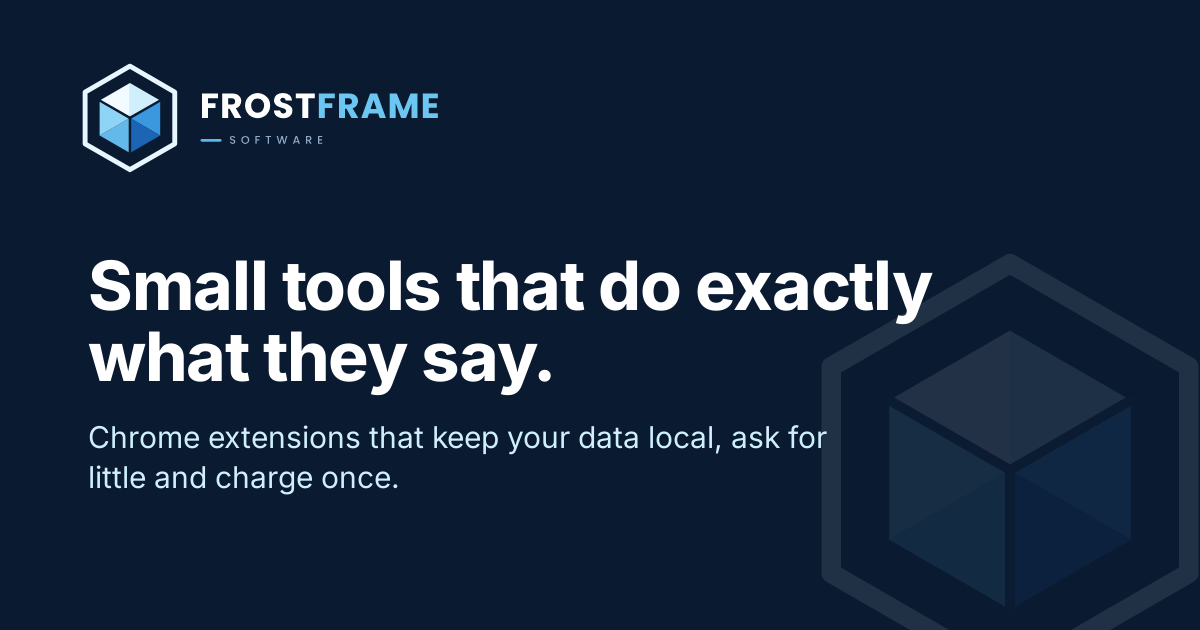
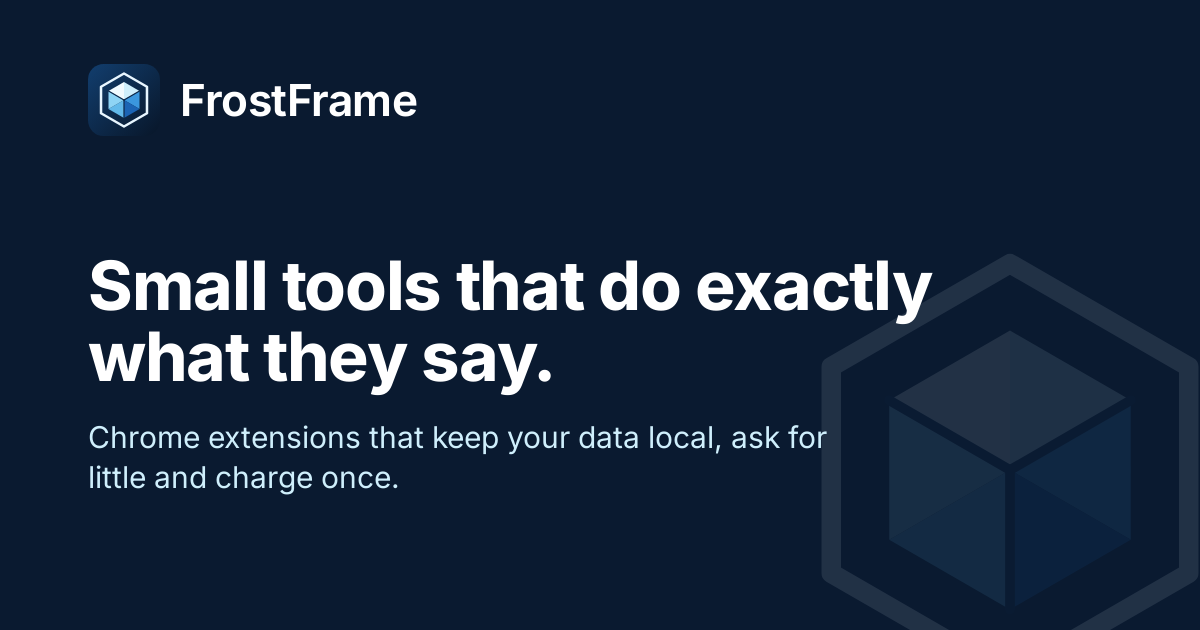
Dachmarke nur „FrostFrame“, ohne „Software“
Claude-Session: https://claude.ai/code/session_01BatjDtbuoVce3uDHUNqtjW

Changed region(s): [[0.0617, 0.0905, 0.37, 0.2714]]

diff --git a/index.html b/index.html
@@ -4,13 +4,13 @@
   <meta charset="utf-8">
   <meta name="viewport" content="width=device-width, initial-scale=1">
   <!-- PLACEHOLDER: Domain (frostframe.example) in canonical und og:url, wenn die Domain registriert ist -->
-  <title>FrostFrame Software – Small, honest browser extensions</title>
-  <meta name="description" content="FrostFrame Software makes focused Chrome extensions: Cookie Desk, Exact Size and Sure Fill. Local by default, minimal permissions, pay once.">
+  <title>FrostFrame – Small, honest browser extensions</title>
+  <meta name="description" content="FrostFrame makes focused Chrome extensions: Cookie Desk, Exact Size and Sure Fill. Local by default, minimal permissions, pay once.">
   <link rel="canonical" href="https://frostframe.example/">
   <meta property="og:type" content="website">
-  <meta property="og:site_name" content="FrostFrame Software">
-  <meta property="og:title" content="FrostFrame Software – Small, honest browser extensions">
-  <meta property="og:description" content="FrostFrame Software makes focused Chrome extensions: Cookie Desk, Exact Size and Sure Fill. Local by default, minimal permissions, pay once.">
+  <meta property="og:site_name" content="FrostFrame">
+  <meta property="og:title" content="FrostFrame – Small, honest browser extensions">
+  <meta property="og:description" content="FrostFrame makes focused Chrome extensions: Cookie Desk, Exact Size and Sure Fill. Local by default, minimal permissions, pay once.">
   <meta property="og:url" content="https://frostframe.example/">
   <meta property="og:image" content="https://frostframe.example/assets/og.png">
   <meta name="twitter:card" content="summary_large_image">
@@ -24,7 +24,7 @@
 <a class="skip" href="#main">Skip to content</a>
 <header class="site-header">
   <div class="wrap">
-    <a class="brand" href="index.html"><img src="assets/brand/frostframe-icon.svg" alt="" width="30" height="30">FrostFrame <span>Software</span></a>
+    <a class="brand" href="index.html"><img src="assets/brand/frostframe-icon.svg" alt="" width="30" height="30">FrostFrame</a>
     <nav class="site-nav" aria-label="Main">
       <a href="index.html#extensions" class="keep">Extensions</a>
       <a href="index.html#pricing">Pricing</a>
@@ -40,7 +40,7 @@
     <div>
       <span class="kicker">Browser extensions for Chrome</span>
       <h1>Small tools that do exactly what they say.</h1>
-      <p class="lead">FrostFrame Software makes focused browser extensions for developers, testers and everyone who works in the browser all day. Your data stays on your device, permissions stay minimal, and you pay once.</p>
+      <p class="lead">FrostFrame makes focused browser extensions for developers, testers and everyone who works in the browser all day. Your data stays on your device, permissions stay minimal, and you pay once.</p>
       <div class="buttons">
         <a class="button primary" href="#extensions">Explore the extensions <svg viewBox="0 0 24 24" aria-hidden="true"><path d="M5 12h14m-6-6 6 6-6 6"/></svg></a>
         <a class="button" href="#pricing">How pricing works</a>
@@ -203,7 +203,7 @@
 <footer class="site-footer">
   <div class="wrap">
     <div>
-      <a class="brand" href="index.html"><img src="assets/brand/frostframe-icon.svg" alt="" width="30" height="30">FrostFrame <span>Software</span></a>
+      <a class="brand" href="index.html"><img src="assets/brand/frostframe-icon.svg" alt="" width="30" height="30">FrostFrame</a>
       <p>Small, honest browser tools. Your data stays on your device.</p>
     </div>
     <nav aria-label="Extensions">
@@ -228,7 +228,7 @@
         <li><a href="privacy.html">Privacy policy</a></li>
       </ul>
     </nav>
-    <p class="legal-line">© 2026 FrostFrame Software.</p>
+    <p class="legal-line">© 2026 FrostFrame.</p>
   </div>
 </footer>
 </body>

diff --git a/privacy.html b/privacy.html
@@ -4,13 +4,13 @@
   <meta charset="utf-8">
   <meta name="viewport" content="width=device-width, initial-scale=1">
   <!-- PLACEHOLDER: Domain (frostframe.example) in canonical und og:url, wenn die Domain registriert ist -->
-  <title>Privacy policy | FrostFrame Software</title>
-  <meta name="description" content="How FrostFrame Software and its browser extensions handle your data.">
+  <title>Privacy policy | FrostFrame</title>
+  <meta name="description" content="How FrostFrame and its browser extensions handle your data.">
   <link rel="canonical" href="https://frostframe.example/privacy.html">
   <meta property="og:type" content="website">
-  <meta property="og:site_name" content="FrostFrame Software">
-  <meta property="og:title" content="Privacy policy | FrostFrame Software">
-  <meta property="og:description" content="How FrostFrame Software and its browser extensions handle your data.">
+  <meta property="og:site_name" content="FrostFrame">
+  <meta property="og:title" content="Privacy policy | FrostFrame">
+  <meta property="og:description" content="How FrostFrame and its browser extensions handle your data.">
   <meta property="og:url" content="https://frostframe.example/privacy.html">
   <meta property="og:image" content="https://frostframe.example/assets/og.png">
   <meta name="twitter:card" content="summary_large_image">
@@ -24,7 +24,7 @@
 <a class="skip" href="#main">Skip to content</a>
 <header class="site-header">
   <div class="wrap">
-    <a class="brand" href="index.html"><img src="assets/brand/frostframe-icon.svg" alt="" width="30" height="30">FrostFrame <span>Software</span></a>
+    <a class="brand" href="index.html"><img src="assets/brand/frostframe-icon.svg" alt="" width="30" height="30">FrostFrame</a>
     <nav class="site-nav" aria-label="Main">
       <a href="index.html#extensions" class="keep">Extensions</a>
       <a href="index.html#pricing">Pricing</a>
@@ -41,7 +41,7 @@
 <p class="muted">Last updated: 28 October 2026</p>
 
 <h2>Who is responsible</h2>
-<p>Patrick Weber, Germany (private individual; FrostFrame Software is the name under which the extensions are published, not a company). Email: <a href="mailto:frostframe.software@proton.me">frostframe.software@proton.me</a>.</p>
+<p>Patrick Weber, Germany (private individual; FrostFrame is the name under which the extensions are published, not a company). Email: <a href="mailto:frostframe.software@proton.me">frostframe.software@proton.me</a>.</p>
 
 <h2 id="website">This website</h2>
 <ul>
@@ -85,7 +85,7 @@
 <footer class="site-footer">
   <div class="wrap">
     <div>
-      <a class="brand" href="index.html"><img src="assets/brand/frostframe-icon.svg" alt="" width="30" height="30">FrostFrame <span>Software</span></a>
+      <a class="brand" href="index.html"><img src="assets/brand/frostframe-icon.svg" alt="" width="30" height="30">FrostFrame</a>
       <p>Small, honest browser tools. Your data stays on your device.</p>
     </div>
     <nav aria-label="Extensions">
@@ -110,7 +110,7 @@
         <li><a href="privacy.html">Privacy policy</a></li>
       </ul>
     </nav>
-    <p class="legal-line">© 2026 FrostFrame Software.</p>
+    <p class="legal-line">© 2026 FrostFrame.</p>
   </div>
 </footer>
 </body>

diff --git a/sure-fill.html b/sure-fill.html
@@ -4,12 +4,12 @@
   <meta charset="utf-8">
   <meta name="viewport" content="width=device-width, initial-scale=1">
   <!-- PLACEHOLDER: Domain (frostframe.example) in canonical und og:url, wenn die Domain registriert ist -->
-  <title>Sure Fill – Fill forms with made-up test data. | FrostFrame Software</title>
+  <title>Sure Fill – Fill forms with made-up test data. | FrostFrame</title>
   <meta name="description" content="Fill forms with made-up, valid test data in one click, and see which fields were skipped and why.">
   <link rel="canonical" href="https://frostframe.example/sure-fill.html">
   <meta property="og:type" content="website">
-  <meta property="og:site_name" content="FrostFrame Software">
-  <meta property="og:title" content="Sure Fill – Fill forms with made-up test data. | FrostFrame Software">
+  <meta property="og:site_name" content="FrostFrame">
+  <meta property="og:title" content="Sure Fill – Fill forms with made-up test data. | FrostFrame">
   <meta property="og:description" content="Fill forms with made-up, valid test data in one click, and see which fields were skipped and why.">
   <meta property="og:url" content="https://frostframe.example/sure-fill.html">
   <meta property="og:image" content="https://frostframe.example/assets/og.png">
@@ -24,7 +24,7 @@
 <a class="skip" href="#main">Skip to content</a>
 <header class="site-header">
   <div class="wrap">
-    <a class="brand" href="index.html"><img src="assets/brand/frostframe-icon.svg" alt="" width="30" height="30">FrostFrame <span>Software</span></a>
+    <a class="brand" href="index.html"><img src="assets/brand/frostframe-icon.svg" alt="" width="30" height="30">FrostFrame</a>
     <nav class="site-nav" aria-label="Main">
       <a href="index.html#extensions" class="keep">Extensions</a>
       <a href="index.html#pricing">Pricing</a>
@@ -91,7 +91,7 @@
 <footer class="site-footer">
   <div class="wrap">
     <div>
-      <a class="brand" href="index.html"><img src="assets/brand/frostframe-icon.svg" alt="" width="30" height="30">FrostFrame <span>Software</span></a>
+      <a class="brand" href="index.html"><img src="assets/brand/frostframe-icon.svg" alt="" width="30" height="30">FrostFrame</a>
       <p>Small, honest browser tools. Your data stays on your device.</p>
     </div>
     <nav aria-label="Extensions">
@@ -116,7 +116,7 @@
         <li><a href="privacy.html">Privacy policy</a></li>
       </ul>
     </nav>
-    <p class="legal-line">© 2026 FrostFrame Software.</p>
+    <p class="legal-line">© 2026 FrostFrame.</p>
   </div>
 </footer>
 </body>

diff --git a/exact-size.html b/exact-size.html
@@ -4,12 +4,12 @@
   <meta charset="utf-8">
   <meta name="viewport" content="width=device-width, initial-scale=1">
   <!-- PLACEHOLDER: Domain (frostframe.example) in canonical und og:url, wenn die Domain registriert ist -->
-  <title>Exact Size – Resize the browser window or viewport to exact sizes. | FrostFrame Software</title>
+  <title>Exact Size – Resize the browser window or viewport to exact sizes. | FrostFrame</title>
   <meta name="description" content="Resize the browser window or viewport to exact sizes.">
   <link rel="canonical" href="https://frostframe.example/exact-size.html">
   <meta property="og:type" content="website">
-  <meta property="og:site_name" content="FrostFrame Software">
-  <meta property="og:title" content="Exact Size – Resize the browser window or viewport to exact sizes. | FrostFrame Software">
+  <meta property="og:site_name" content="FrostFrame">
+  <meta property="og:title" content="Exact Size – Resize the browser window or viewport to exact sizes. | FrostFrame">
   <meta property="og:description" content="Resize the browser window or viewport to exact sizes.">
   <meta property="og:url" content="https://frostframe.example/exact-size.html">
   <meta property="og:image" content="https://frostframe.example/assets/og.png">
@@ -24,7 +24,7 @@
 <a class="skip" href="#main">Skip to content</a>
 <header class="site-header">
   <div class="wrap">
-    <a class="brand" href="index.html"><img src="assets/brand/frostframe-icon.svg" alt="" width="30" height="30">FrostFrame <span>Software</span></a>
+    <a class="brand" href="index.html"><img src="assets/brand/frostframe-icon.svg" alt="" width="30" height="30">FrostFrame</a>
     <nav class="site-nav" aria-label="Main">
       <a href="index.html#extensions" class="keep">Extensions</a>
       <a href="index.html#pricing">Pricing</a>
@@ -91,7 +91,7 @@
 <footer class="site-footer">
   <div class="wrap">
     <div>
-      <a class="brand" href="index.html"><img src="assets/brand/frostframe-icon.svg" alt="" width="30" height="30">FrostFrame <span>Software</span></a>
+      <a class="brand" href="index.html"><img src="assets/brand/frostframe-icon.svg" alt="" width="30" height="30">FrostFrame</a>
       <p>Small, honest browser tools. Your data stays on your device.</p>
     </div>
     <nav aria-label="Extensions">
@@ -116,7 +116,7 @@
         <li><a href="privacy.html">Privacy policy</a></li>
       </ul>
     </nav>
-    <p class="legal-line">© 2026 FrostFrame Software.</p>
+    <p class="legal-line">© 2026 FrostFrame.</p>
   </div>
 </footer>
 </body>

diff --git a/cookie-desk.html b/cookie-desk.html
@@ -4,12 +4,12 @@
   <meta charset="utf-8">
   <meta name="viewport" content="width=device-width, initial-scale=1">
   <!-- PLACEHOLDER: Domain (frostframe.example) in canonical und og:url, wenn die Domain registriert ist -->
-  <title>Cookie Desk – View, edit, protect and back up cookies in Chrome. | FrostFrame Software</title>
+  <title>Cookie Desk – View, edit, protect and back up cookies in Chrome. | FrostFrame</title>
   <meta name="description" content="View, edit, protect and back up cookies in Chrome.">
   <link rel="canonical" href="https://frostframe.example/cookie-desk.html">
   <meta property="og:type" content="website">
-  <meta property="og:site_name" content="FrostFrame Software">
-  <meta property="og:title" content="Cookie Desk – View, edit, protect and back up cookies in Chrome. | FrostFrame Software">
+  <meta property="og:site_name" content="FrostFrame">
+  <meta property="og:title" content="Cookie Desk – View, edit, protect and back up cookies in Chrome. | FrostFrame">
   <meta property="og:description" content="View, edit, protect and back up cookies in Chrome.">
   <meta property="og:url" content="https://frostframe.example/cookie-desk.html">
   <meta property="og:image" content="https://frostframe.example/assets/og.png">
@@ -24,7 +24,7 @@
 <a class="skip" href="#main">Skip to content</a>
 <header class="site-header">
   <div class="wrap">
-    <a class="brand" href="index.html"><img src="assets/brand/frostframe-icon.svg" alt="" width="30" height="30">FrostFrame <span>Software</span></a>
+    <a class="brand" href="index.html"><img src="assets/brand/frostframe-icon.svg" alt="" width="30" height="30">FrostFrame</a>
     <nav class="site-nav" aria-label="Main">
       <a href="index.html#extensions" class="keep">Extensions</a>
       <a href="index.html#pricing">Pricing</a>
@@ -94,7 +94,7 @@
 <footer class="site-footer">
   <div class="wrap">
     <div>
-      <a class="brand" href="index.html"><img src="assets/brand/frostframe-icon.svg" alt="" width="30" height="30">FrostFrame <span>Software</span></a>
+      <a class="brand" href="index.html"><img src="assets/brand/frostframe-icon.svg" alt="" width="30" height="30">FrostFrame</a>
       <p>Small, honest browser tools. Your data stays on your device.</p>
     </div>
     <nav aria-label="Extensions">
@@ -119,7 +119,7 @@
         <li><a href="privacy.html">Privacy policy</a></li>
       </ul>
     </nav>
-    <p class="legal-line">© 2026 FrostFrame Software.</p>
+    <p class="legal-line">© 2026 FrostFrame.</p>
   </div>
 </footer>
 </body>

diff --git a/404.html b/404.html
@@ -4,12 +4,12 @@
   <meta charset="utf-8">
   <meta name="viewport" content="width=device-width, initial-scale=1">
   <!-- PLACEHOLDER: Domain (frostframe.example) in canonical und og:url, wenn die Domain registriert ist -->
-  <title>Page not found | FrostFrame Software</title>
+  <title>Page not found | FrostFrame</title>
   <meta name="description" content="This page does not exist.">
   <link rel="canonical" href="https://frostframe.example/404.html">
   <meta property="og:type" content="website">
-  <meta property="og:site_name" content="FrostFrame Software">
-  <meta property="og:title" content="Page not found | FrostFrame Software">
+  <meta property="og:site_name" content="FrostFrame">
+  <meta property="og:title" content="Page not found | FrostFrame">
   <meta property="og:description" content="This page does not exist.">
   <meta property="og:url" content="https://frostframe.example/404.html">
   <meta property="og:image" content="https://frostframe.example/assets/og.png">
@@ -24,7 +24,7 @@
 <a class="skip" href="#main">Skip to content</a>
 <header class="site-header">
   <div class="wrap">
-    <a class="brand" href="index.html"><img src="assets/brand/frostframe-icon.svg" alt="" width="30" height="30">FrostFrame <span>Software</span></a>
+    <a class="brand" href="index.html"><img src="assets/brand/frostframe-icon.svg" alt="" width="30" height="30">FrostFrame</a>
     <nav class="site-nav" aria-label="Main">
       <a href="index.html#extensions" class="keep">Extensions</a>
       <a href="index.html#pricing">Pricing</a>
@@ -44,7 +44,7 @@
 <footer class="site-footer">
   <div class="wrap">
     <div>
-      <a class="brand" href="index.html"><img src="assets/brand/frostframe-icon.svg" alt="" width="30" height="30">FrostFrame <span>Software</span></a>
+      <a class="brand" href="index.html"><img src="assets/brand/frostframe-icon.svg" alt="" width="30" height="30">FrostFrame</a>
       <p>Small, honest browser tools. Your data stays on your device.</p>
     </div>
     <nav aria-label="Extensions">
@@ -69,7 +69,7 @@
         <li><a href="privacy.html">Privacy policy</a></li>
       </ul>
     </nav>
-    <p class="legal-line">© 2026 FrostFrame Software.</p>
+    <p class="legal-line">© 2026 FrostFrame.</p>
   </div>
 </footer>
 </body>

diff --git a/assets/site.css b/assets/site.css
@@ -76,7 +76,6 @@ section + section { border-top: 1px solid var(--line); }
 .site-header .wrap { display: flex; align-items: center; gap: 24px; height: 64px; }
 .brand { display: flex; align-items: center; gap: 10px; color: var(--text); text-decoration: none; font-weight: 650; font-size: 19px; letter-spacing: -0.01em; }
 .brand img { width: 30px; height: 30px; }
-.brand span { color: var(--text-muted); font-weight: 450; }
 .site-nav { margin-left: auto; display: flex; gap: 4px; align-items: center; }
 .site-nav a { color: var(--text); text-decoration: none; padding: 6px 12px; border-radius: var(--radius); font-size: 15px; font-weight: 500; }
 .site-nav a:hover { background: var(--surface); }
@@ -229,7 +228,6 @@ section + section { border-top: 1px solid var(--line); }
   section { padding: 64px 0; }
   .hero { padding: 64px 0 72px; }
   .site-nav a:not(.keep) { display: none; }
-  .brand span { display: none; }
   .principles, .steps, .site-footer .wrap { grid-template-columns: 1fr; }
   .product, .plan { padding: 24px; }
   .band { padding: 40px 24px; --fold: 40px; }
